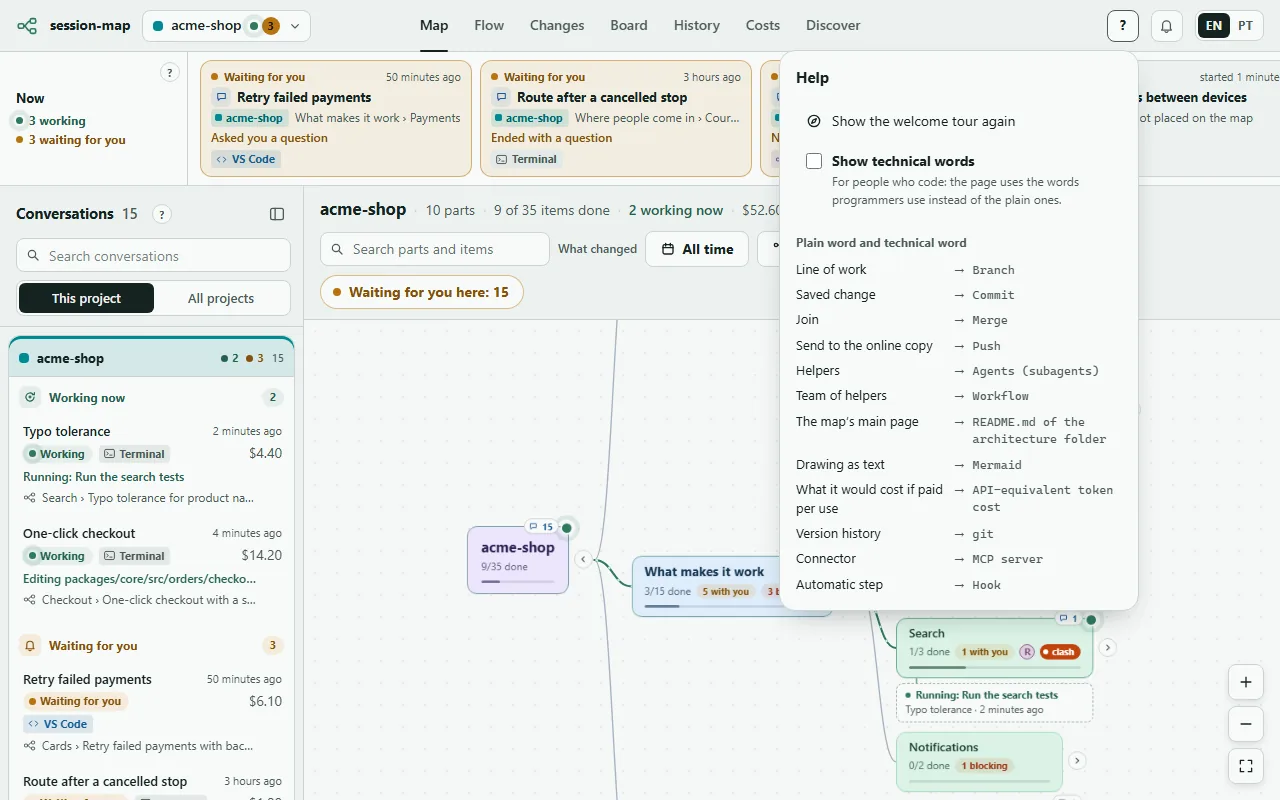
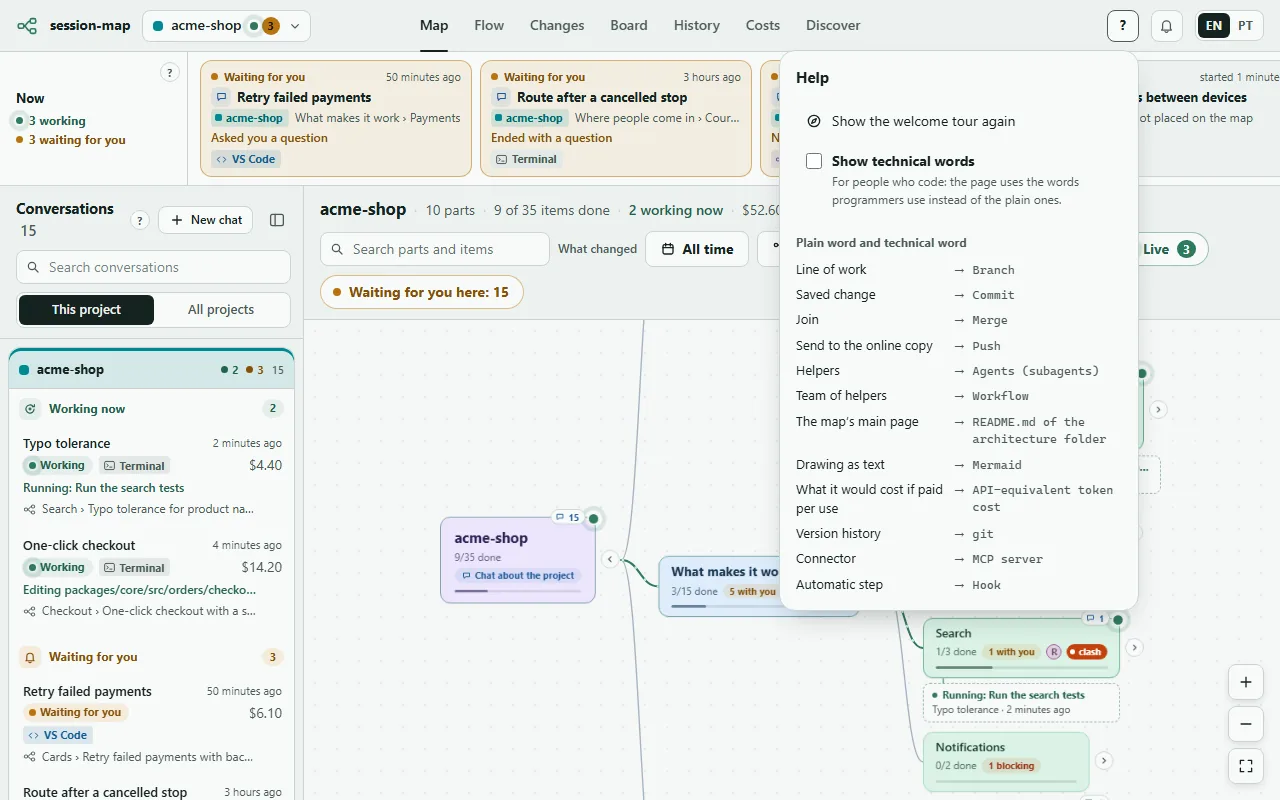
chore(release): v0.2.4
- Version 0.2.4 in package.json, plugin.json and the CHANGELOG, whose 0.2.4
  section tells in plain words what changed since 0.2.3: project chats, the
  chat under the box you clicked with the information folding while you
  talk, a conversation per box, ready first questions, the compact
  Claude-like chat, and every file in the Files tab opening.
- READMEs (en, pt-BR): the chat under the box and the project's whole file
  tree; the screenshots regenerated from --demo on the released screens.
- docs/architecture: or13, pc09 to pc11, mm07 and mm26 read "released in
  v0.2.4"; the project chats request (id73) and today's two requests (id74,
  id75) move to the closed ideas.

diff --git a/docs/architecture/mind-map-page.md b/docs/architecture/mind-map-page.md
@@ -57,7 +57,7 @@ Plain ES modules and a vendored `d3` for zoom and drag, no build step. Clicking 
 - [x] **Claude:** Panels separated by kind of information `mm07`
   - Distinct blocks with their own color, icon and plain title: Tasks, Chats, Lines of work (branches), What changed, Files. Each block says where its data comes from.
   - Tabs in the panel (Summary, Tasks, Chats, Changes, Files); the Summary shows only the essentials. The same colors and icons for each kind everywhere: map, lists, Now strip, alerts.
-  - A click on any box opens these tabs on the Summary (an item on its own detail), with the chat about the box always under them in the same sheet: the chat never replaces the information and is never hidden behind a tab. Sending a message folds the information to one line (open items, how many wait for the person, what blocks), a click opens it again, and the line between them moves the boundary (drag or arrow keys). Each box has its own chat: another box opens its own, the previous one keeps running and comes back whole when its box is clicked again; "New chat" starts a fresh one. A new chat offers ready first messages that fill the box to write in without sending. A part or a layer with no file linked says "no file linked to this part yet" with a "?" instead of zeros.
+  - A click on any box opens these tabs on the Summary (an item on its own detail), with the chat about the box always under them in the same sheet: the chat never replaces the information and is never hidden behind a tab. Sending a message folds the information to one line (open items, how many wait for the person, what blocks), a click opens it again, and the line between them moves the boundary (drag or arrow keys). Each box has its own chat: another box opens its own, the previous one keeps running and comes back whole when its box is clicked again; "New chat" starts a fresh one. A new chat offers ready first messages that fill the box to write in without sending (released in v0.2.4). A part or a layer with no file linked says "no file linked to this part yet" with a "?" instead of zeros.
 - [x] **Claude:** Visual polish of the whole program, written down in `DESIGN.md` `mm08`
   - One visual system: type scale, spacing grid, semantic palette (light and dark, AA contrast), one icon set, identical components with every state, short purposeful motion that respects reduced motion.
   - Empty screens with a simple illustration and a sentence, skeletons while loading, nothing cut off or overlapping on desktop and phone.
@@ -126,6 +126,7 @@ Plain ES modules and a vendored `d3` for zoom and drag, no build step. Clicking 
   - A file tree per box like VS Code's explorer; code colored, with line numbers and search in the file; jump to the files it uses and the files that use it (import graph); Open in VS Code at the line.
   - How to confirm it is done: open a part, expand its tree, open a file: line numbers and colors show; search finds a word; "used by" lists the files that import it; Open in VS Code lands on that line.
   - Released in v0.2.3: the Files tab of a box is a folder tree like the editor's explorer (folders first, single-folder chains on one line, open folders kept while the page lives); a file opens with the code in colors (our own small reader, no dependency), line numbers, search in the file with next and previous, the files it uses and that use it with the line of each (`server/imports.mjs` reads the import lines of JavaScript, TypeScript, CSS and HTML over the saved files) and the libraries it asks for; a click on a line picks it for Open in VS Code. Other languages, new files not yet saved and very long files go on in `mm36`.
+  - Released in v0.2.4: the project box's Files tab shows the whole program as a folder tree (every counted file, never a secrets file) and its lists of files with no box and of files left out open the viewer (binaries stay text); a row says "opening…" while it loads, and the code shows before what it uses and what uses it.
 - [ ] **important:** The rest of the Changes tab `mm35`
   - What is left of `mm30`: an edit made by a command the conversation ran (a script, a formatter, `sed`) reads "outside the conversations": tie it to the conversation whose step ran just before the folder changed; the release is looked up for the newest 60 saved changes of a project (older ones read "Saved"); a click on a box's "+N files" chip opens the Changes tab filtered to that part; a file changed and removed before any pass of the server saw its last version (the server was off, or it all happened within seconds) says its previous content was not kept: rebuild it by replaying the conversation's edit steps after the one that wrote it.
   - How to confirm it is done: a conversation that runs a formatter shows those files under its name; a file a conversation wrote, edited and removed while the server was off shows the content it had after the last edit; a change saved months ago and released shows its version; the chip opens the tab with the part already picked.

diff --git a/docs/architecture/ideas-closed.md b/docs/architecture/ideas-closed.md
@@ -253,3 +253,21 @@ Nothing here is code. The closed registry is this file, read by the map like eve
   - How to confirm it is done: with a workflow running, every active agent shows as a dot on the right box with its last step, and clicking a changed file shows the request that caused it; see `mm31`.
   - Where it went: `mm31`; what is left in `mm37`.
   - Status: done (released in v0.2.3): each team of helpers shows as a tree from what was asked to every helper with its state, model and place; each team has its own colour with a dot per helper at work on the boxes it touches, in any project; the conversation's panel lists the files, saved changes and version of each helper, and a changed file in Changes shows the request that led to it. A page chat's map point as the request, single helpers and team colours on the Now cards go on in `mm37`.
+- [x] A general chat about the whole project, many of them, opened like Claude's "New chat" `id73`
+  - Asked: 2026-10-09 ~23:30 — paraphrased (the exact words were not recorded): besides the chats on each bubble, he wants a general chat about the whole project that works like Claude: a clear "New chat" button at the top, many chats listed in the project, closing the panel and opening another, reopening any of them; the root bubble should open them too.
+  - What it means: plain project chats, the first step of the orchestration chat: started from the map tools, the conversation list or the root bubble, in the project's root folder, with a compact project summary in the first message; pinned on top of the project's card; resumed, renamed and archived like any chat. The manager's powers (activity chats, reports back) stay in `or01` to `or03`.
+  - How to confirm it is done: see `or13`.
+  - Where it went: `or13` (first step of `or01`).
+  - Status: done (released in v0.2.4, with the screenshots approved by the owner).
+- [x] The chat about a box always at hand, under its information, never lost as the last tab `id74`
+  - Asked: 2026-10-10 — "Eu ainda não me conformei com esse chat perdido no final, o chat tem que ser algo intuitivo, da mesma forma que as informações dos baloes"
+  - What it means: the owner picked "information on top, chat below" from three sketches; while he talks the information folds to one line by itself; another box opens its own chat while the previous one keeps running and comes back whole.
+  - How to confirm it is done: click a box: its Summary on top and its chat under it with the box to write in on screen; send a message: the information folds to one line; click another box and back: the conversation is there.
+  - Where it went: `mm07`.
+  - Status: done (released in v0.2.4, with the screenshots approved by the owner).
+- [x] Every file in a box's Files tab opens with a click `id75`
+  - Asked: 2026-10-10 — "eu nao consigo clicar nos arquivos para ver" (in a box's Files tab)
+  - What it means: the project box listed its files as plain text, and a part's first file took seconds with no sign of life; now the project box shows the whole program as a tree, every listed file opens, and the row says it is opening.
+  - How to confirm it is done: in the project box and in a part, open the Files tab and click a file: "opening…" shows at once and the file opens.
+  - Where it went: `mm26`.
+  - Status: done (released in v0.2.4).

diff --git a/README.pt-BR.md b/README.pt-BR.md
@@ -31,7 +31,7 @@ Também é preciso ter o Node.js 20 ou mais novo no computador ([nodejs.org](htt
 
 ![O passeio de boas-vindas mostrando o que é o mapa](docs/images/pt-tour.webp)
 
-**4. Clique numa caixa.** Cada caixa é uma parte do seu projeto. O painel dela mostra o que falta ali, as conversas sobre ela, as últimas mudanças salvas e os arquivos, cada coisa no seu bloco e com a sua cor. A aba **Conversa** deixa você pedir algo ao Claude exatamente sobre aquela parte.
+**4. Clique numa caixa.** Cada caixa é uma parte do seu projeto. O painel dela mostra o que falta ali, as conversas sobre ela, as últimas mudanças salvas e os arquivos, cada coisa no seu bloco e com a sua cor. O chat daquela parte fica logo embaixo, sempre à mão: peça algo ao Claude exatamente sobre aquela parte, ou escolha uma das perguntas prontas. Enquanto você conversa, as informações encolhem para uma linha, e cada caixa guarda a sua própria conversa. A caixa do projeto tem os chats sobre o projeto inteiro, como o "Novo chat" do Claude.
 
 ![O painel de uma parte, com um choque entre duas linhas de trabalho explicado em palavras simples](docs/images/pt-part.webp)
 
@@ -124,7 +124,7 @@ Sem o plugin: `node server/main.mjs [--lan] [--port 4001]`, ou `--demo` para dad
 
 ### Arquivos
 
-Abra uma parte, um item ou um ramo e a seção **Arquivos** lista os arquivos, com os novos e alterados marcados. Tocar num deles abre só para leitura (até 1 MB, só texto, nunca `.git`, nunca arquivos `.env`) com as linhas que o ramo mudou em destaque. **Abrir no VS Code** abre o arquivo neste PC, **Abrir terminal nesta pasta** abre um terminal ali, e **VS Code no celular** aparece quando você define `tunnelUrl`. Ler arquivos exige o token, como o chat.
+Abra uma parte, um item ou um ramo e a seção **Arquivos** lista os arquivos, com os novos e alterados marcados; a caixa do projeto mostra o programa inteiro como uma árvore de pastas. Tocar num deles abre só para leitura (até 1 MB, só texto, nunca `.git`, nunca arquivos `.env`) com as linhas que o ramo mudou em destaque. **Abrir no VS Code** abre o arquivo neste PC, **Abrir terminal nesta pasta** abre um terminal ali, e **VS Code no celular** aparece quando você define `tunnelUrl`. Ler arquivos exige o token, como o chat.
 
 ### No celular
 

diff --git a/README.md b/README.md
@@ -31,7 +31,7 @@ You also need Node.js 20 or newer on the computer ([nodejs.org](https://nodejs.o
 
 ![The welcome tour showing what the map is](docs/images/en-tour.webp)
 
-**4. Click a box.** Each box is a part of your project. Its panel shows what is missing there, the conversations about it, the latest saved changes and its files, each in its own block with its own color. The **Conversation** tab lets you ask Claude for something about exactly that part.
+**4. Click a box.** Each box is a part of your project. Its panel shows what is missing there, the conversations about it, the latest saved changes and its files, each in its own block with its own color. The chat about that part sits right under it, always at hand: ask Claude for something about exactly that part, or pick one of the ready first questions. While you talk, the information folds to one line, and each box keeps its own conversation. The project box has its own chats about the whole project, like "New chat" in Claude.
 
 ![The panel of a part, with a clash between two lines of work explained in plain words](docs/images/en-part.webp)
 
@@ -124,7 +124,7 @@ Without the plugin: `node server/main.mjs [--lan] [--port 4001]`, or `--demo` fo
 
 ### Files
 
-Open a part, an item or a branch and its **Files** section lists the files, new and changed ones marked. Tapping one opens it read-only (up to 1 MB, text only, never `.git`, never `.env` files) with the lines the branch changed highlighted. **Open in VS Code** opens that file on this PC, **Open terminal in this folder** opens a shell there, and **VS Code on your phone** appears when you set `tunnelUrl`. Reading files needs the token, like the chat.
+Open a part, an item or a branch and its **Files** section lists the files, new and changed ones marked; the project box lists the whole program as a folder tree. Tapping one opens it read-only (up to 1 MB, text only, never `.git`, never `.env` files) with the lines the branch changed highlighted. **Open in VS Code** opens that file on this PC, **Open terminal in this folder** opens a shell there, and **VS Code on your phone** appears when you set `tunnelUrl`. Reading files needs the token, like the chat.
 
 ### On your phone
 

diff --git a/CHANGELOG.md b/CHANGELOG.md
@@ -1,5 +1,30 @@
 # Changelog
 
+## 0.2.4
+
+The chat now sits where you work: under the box you clicked, always at hand, and every project has its own chats
+about the whole project.
+
+- New: project chats. The project box opens the whole project (what is open, its size, what waits for you, what works
+  now) with a "Project chats" list, and "New chat" at the top of the map and of the conversation list starts a chat
+  about the whole project, like "New chat" in Claude. Its first message carries a short summary of the project (never
+  its history), so Claude knows the layers, the parts and what is missing. Many per project; each can be reopened,
+  renamed and archived.
+- New: a click on a box opens its information on top (Summary, Tasks, Conversations, Changes, Files) and the chat
+  about that box right under it, with the box to write in always on screen. While you talk, the information folds to
+  one line with what matters at a glance; a click opens it again. The line between them can be dragged.
+- New: each box keeps its own conversation. Open another box and the first one keeps working; come back and it is
+  there, whole. "New chat" starts a fresh one on any box.
+- New: a new chat offers ready first questions ("What is missing in…?", "Explain … in plain words", "Start the next
+  task of…"). A click writes the question in the box; nothing is sent until you press Send.
+- Changed: the chat looks like Claude's. The way it runs, the model, the effort and the permissions live in one
+  compact button by Send ("Automatic · Opus · high"); the header is one thin line; replies' headings are close to the
+  text size.
+- Fixed: every file in the Files tab opens. The project box shows the whole program as a folder tree, its lists of
+  files with no box open too, and a file row says "opening…" while it loads; the code shows at once.
+- Fixed: a click on a box showed only the chat; its information is back, first.
+- Fixed: Send works on the first click; the "Finished" line and the alerts read as plain words.
+
 ## 0.2.3
 
 session-map now keeps an eye on every conversation for you, shows exactly what each one changed, and reads in plain

diff --git a/docs/architecture/orchestration.md b/docs/architecture/orchestration.md
@@ -23,7 +23,8 @@ Each project gets one orchestration chat, pinned on top of the conversation list
 ### Chats
 
 - [x] Project chats: general chats about the whole project, many per project, like Claude's "New chat" `or13`
-  - A click on the root bubble opens the whole project in tabs: Summary (open items, size, files with no box, what waits for the owner, what works now, the layers), "Project chats" with "New project chat", What changed, Files, and the chat as the last tab. "New chat" at the top of the map tools and of the conversation list opens the same sheet on its Chat tab, in the project root folder.
+  - A click on the root bubble opens the whole project in tabs: Summary (open items, size, files with no box, what waits for the owner, what works now, the layers), "Project chats" with "New project chat", What changed and Files, with the chat under them. "New chat" at the top of the map tools and of the conversation list opens the same sheet with the information folded and a new chat first, in the project root folder.
+  - Released in v0.2.4.
   - The first message carries a compact summary built from the state (layers and parts with one line each and their open items counted, what is working now, what waits for the owner, recent decisions, last changes and versions; at most 3,800 bytes, never the history) and the rule that a new request becomes an item in the right part's "What's missing", with the flow changed alongside, citing item codes (`server/chat/project.mjs`).
   - Kept in page-chats.json with the point kind `project`; never pinned to one part by the codes or files it touches; listed under "Project chats" on top of the project's card (title from the first message, time, state, cost); resumes with its history, renames and archives like any chat. The sheet takes the first message as its title as soon as it is sent, as the list does.
   - Checked in the real app on a test folder: two chats with Haiku at low asked "what is missing in this project?"; each answer named the open items and the parts without a description, about US$ 0.01 each.

diff --git a/docs/architecture/ideas.md b/docs/architecture/ideas.md
@@ -84,13 +84,6 @@ Nothing here is code. The registry is this file, read by the map like every part
   - How to confirm it is done: the project's list shows the orchestration chat pinned; asking it for two items starts two activity chats on those items after one confirmation; when they finish, each posts its result in the orchestration thread and ticks its item.
   - Where it went: `or01`, `or02`, `or03`.
   - Status: accepted.
-- [ ] **in progress:** A general chat about the whole project, many of them, opened like Claude's "New chat" `id73`
-  - Asked: 2026-10-09 ~23:30 — paraphrased (the exact words were not recorded): besides the chats on each bubble, he wants a general chat about the whole project that works like Claude: a clear "New chat" button at the top, many chats listed in the project, closing the panel and opening another, reopening any of them; the root bubble should open them too.
-  - What it means: plain project chats, the first step of the orchestration chat: started from the map tools, the conversation list or the root bubble, in the project's root folder, with a compact project summary in the first message; pinned on top of the project's card; resumed, renamed and archived like any chat. The manager's powers (activity chats, reports back) stay in `or01` to `or03`.
-  - How to confirm it is done: see `or13`.
-  - State: built and checked in the real app (two chats on a test folder, the cheapest model); waits for the owner's approval of the screenshots.
-  - Where it went: `or13` (first step of `or01`).
-  - Status: built on 2026-10-10 (not released yet); it moves to the closed ideas once the owner confirms it.
 - [ ] Earn some money with it `id28`
   - Asked: 2026-10-09 00:35 — "Da pra ganhar um dinheirinho com isso?"; 2026-10-09 00:40 — "Não, só tô pensando alto"
   - What it means: a possible paid team plan in the cloud (a map shared between machines), or the Arsenal as a product; nothing of it goes into v0.x.

diff --git a/docs/architecture/page-chat.md b/docs/architecture/page-chat.md
@@ -46,10 +46,13 @@ A chat is a `claude` CLI process per conversation, driven over its stream. The f
 - [x] **Claude:** Send works on the first click, even when the text box is not focused `pc09`
   - The key hints under the box are hidden but keep their line: before, focus entering the form showed them, Send jumped up under the pointer mid-click and the message never left.
   - How to confirm it is done: type a message, click anywhere outside the box (or change the model in the menu by Send), then click Send once: the message goes and the box empties.
+  - Released in v0.2.4.
 - [x] **Claude:** The "Finished" line and the alerts read as plain words, without the reply's formatting marks `pc10`
   - How to confirm it is done: ask for an answer with bold text and a list; when it ends, the line above the box and the alert show "Finished: Short answer: …", never `**` or backticks.
+  - Released in v0.2.4.
 - [x] **Claude:** The chat looks like Claude's, with most of the height for the dialogue `pc11`
   - The way it runs, the model, the effort, the permissions and "use this mode in every Claude on this PC" live in the menu of one compact button by Send ("Automatic · Opus · high"); nothing of it sits at the top.
   - The header is one thin line: where the conversation is, its title, New chat, ⋯ (rename or move, archive, open where it lives) and close.
+  - Released in v0.2.4.
   - Headings inside a reply stay close to the text size (1.15, 1.08 and 1 times the text), with tight margins.
   - How to confirm it is done: open a project chat; only the title line sits above the messages; the button by Send opens its menu and Esc or a click outside closes it; a reply with headings reads like the rest of the text, a step bolder.
